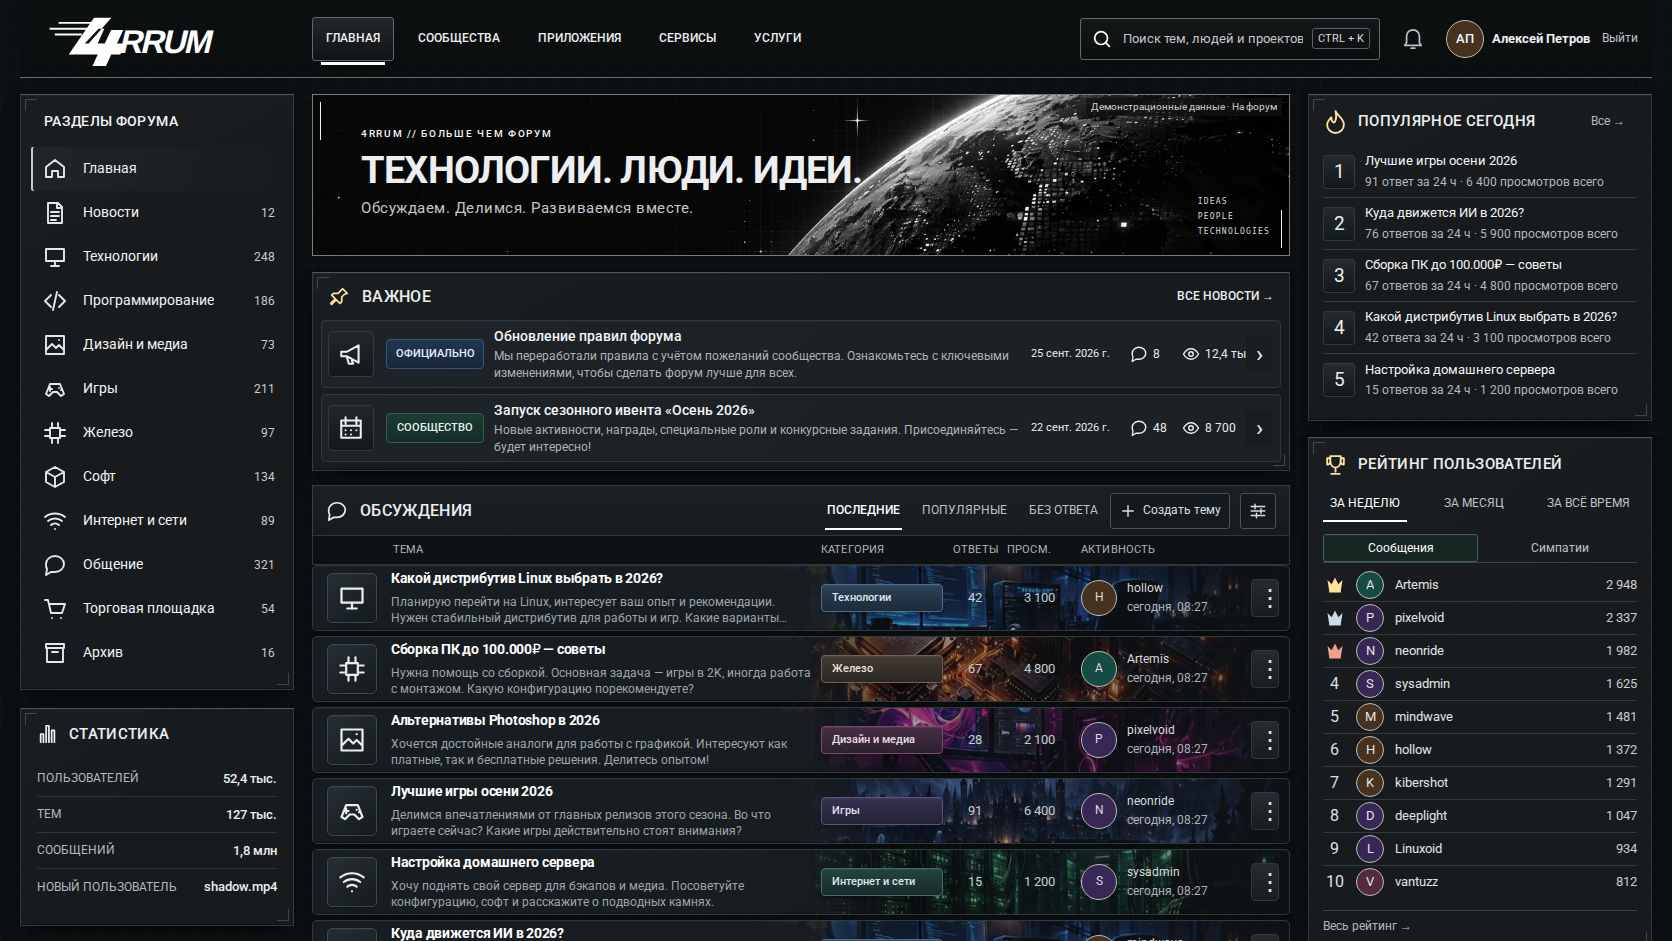
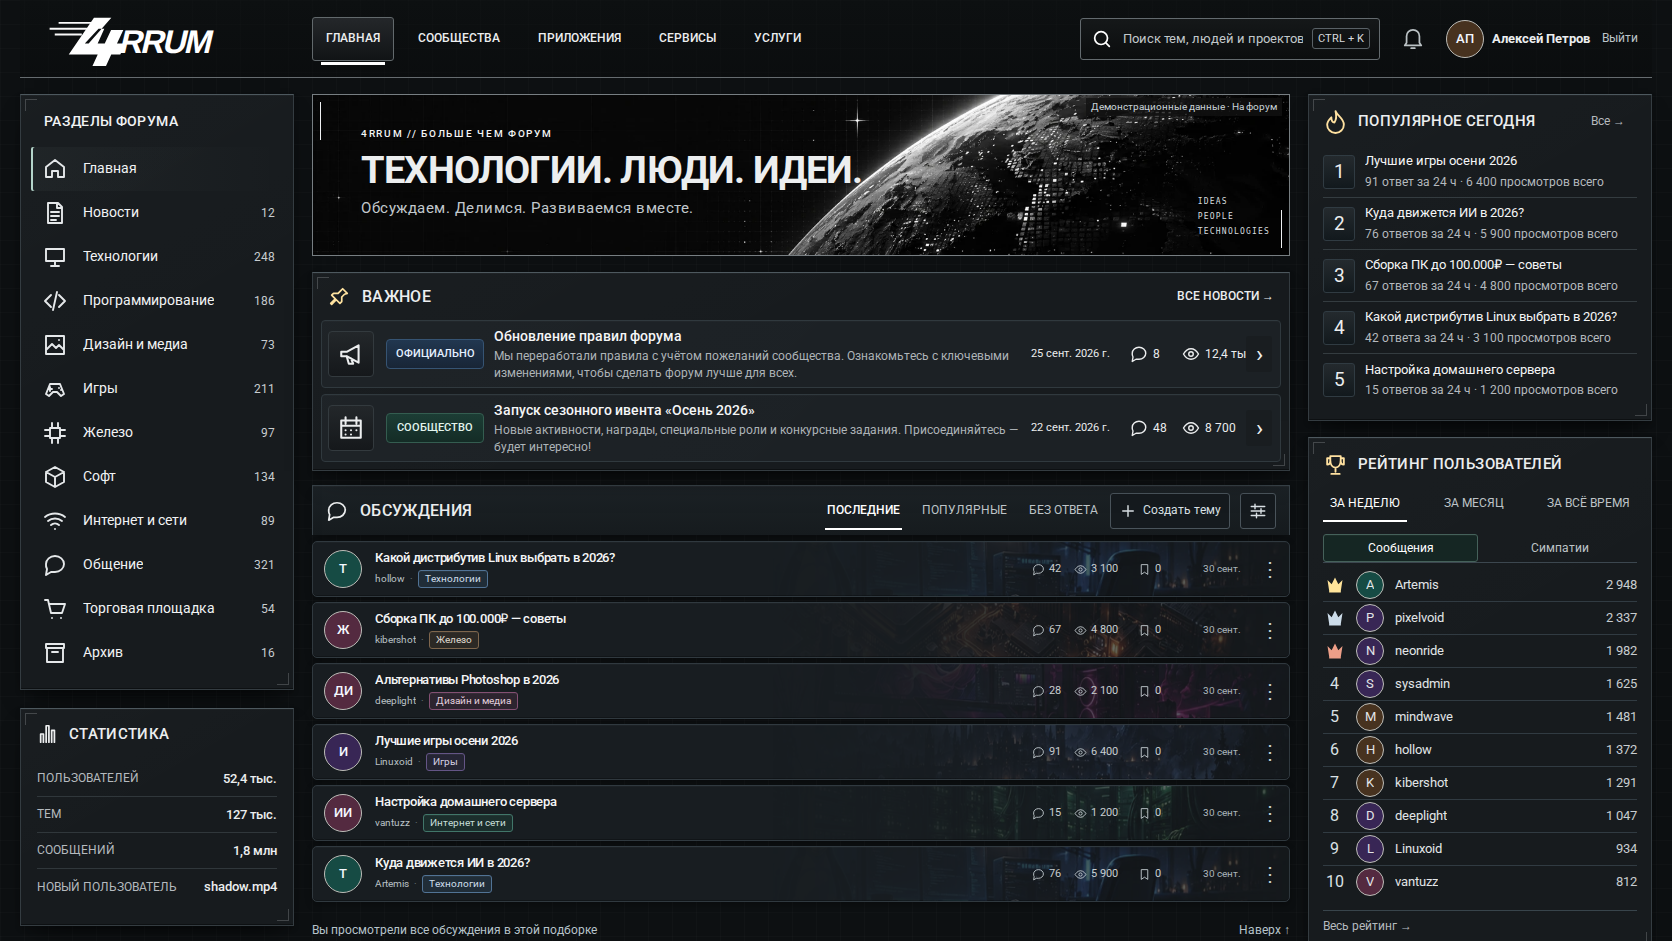
Главная: компактный скелет тем по референсу (#131)
* refactor(home): match compact topic skeleton

* style(home): compact reference topic rows

* test(home): cover compact topic skeleton

* feat(home): support compact absolute dates

* style(home): use compact topic dates

* fix(home): keep compact topics touch-accessible

* fix(home): repair compact date source

* fix(home): keep mobile topic metrics on one row

* ci(home): generate reviewed topic snapshots

* test(home): approve compact topic snapshots

* ci(home): remove temporary snapshot workflow

---------

Changed region(s): [[0.1866, 0.5547, 0.7775, 1.0]]

diff --git a/apps/web/app/home-alpha.css b/apps/web/app/home-alpha.css
@@ -369,3 +369,310 @@ body:has(.forum-home) .site-footer {display:none;}
 .forum-home .forum-topic-content {background:linear-gradient(90deg,#181d21 80%,#181d21eb);border-radius:2px;}
 .forum-home .forum-topic h2 {color:#fff;}
 @media (max-width:760px) {.forum-home .forum-topic::after {mask-image:linear-gradient(90deg,transparent 15%,#000 85%);}.forum-home .forum-topic-content {background:#181d21f5;}}
+
+
+/* Topic skeleton v76: compact reference layout, metadata under the title. */
+.forum-home .forum-topic-columns {display:none;}
+.forum-home .forum-feed {gap:5px;margin-top:6px;}
+.forum-home .forum-topic {
+ display:grid;
+ grid-template-columns:42px minmax(0,1fr) auto 30px;
+ grid-template-rows:auto;
+ gap:10px;
+ align-items:center;
+ min-height:56px;
+ padding:5px 8px 5px 10px;
+}
+.forum-home .forum-topic::after {
+ opacity:.34;
+ filter:saturate(.62) contrast(.96);
+ mask-image:linear-gradient(90deg,transparent 46%,#0002 62%,#000 82%,#000a 100%);
+}
+.forum-home .forum-topic-main-link::after {display:none;}
+.forum-home .forum-topic-avatar {
+ grid-column:1;
+ grid-row:1;
+ align-self:center;
+ display:grid;
+ place-items:center;
+ width:40px;
+ height:40px;
+}
+.forum-home .forum-topic-avatar .avatar {
+ width:38px!important;
+ height:38px!important;
+ border-color:color-mix(in srgb,var(--chip-accent,#98b4cd) 58%,#87949b);
+ box-shadow:0 1px 4px #0008,inset 0 1px #ffffff14;
+}
+.forum-home .forum-topic-content {
+ grid-column:2;
+ grid-row:1;
+ min-width:0;
+ background:transparent;
+ border-radius:0;
+}
+.forum-home .forum-topic-title-line {
+ display:flex;
+ align-items:center;
+ gap:6px;
+ min-width:0;
+ margin-bottom:4px;
+}
+.forum-home .forum-topic h2 {
+ flex:1 1 auto;
+ min-width:0;
+ margin:0;
+ font-size:13px;
+ line-height:1.22;
+ font-weight:500;
+ color:#f5f6f7;
+}
+.forum-home .forum-topic h2 .forum-topic-main-link {
+ display:block;
+ overflow:hidden;
+ text-overflow:ellipsis;
+ white-space:nowrap;
+}
+.forum-home .forum-topic-pinned {
+ flex:0 0 auto;
+ display:grid;
+ place-items:center;
+ margin:0;
+ color:#cbd4d7;
+}
+.forum-home .forum-topic-pinned svg {width:13px;height:13px;}
+.forum-home .forum-topic-important {
+ flex:0 0 auto;
+ display:inline-flex;
+ align-items:center;
+ min-height:17px;
+ margin:0;
+ padding:1px 5px;
+ border:1px solid #4da98e;
+ border-radius:3px;
+ background:#17372f;
+ color:#c9f7e8;
+ font-size:9px;
+ line-height:1;
+ font-weight:500;
+}
+.forum-home .forum-topic-excerpt {display:none;}
+.forum-home .forum-topic-context {
+ position:relative;
+ z-index:2;
+ display:flex;
+ align-items:center;
+ gap:5px;
+ min-width:0;
+ height:18px;
+ overflow:hidden;
+ color:#9fa8ad;
+ font-size:10px;
+ line-height:18px;
+ white-space:nowrap;
+}
+.forum-home .forum-topic-author {
+ flex:0 1 auto;
+ max-width:110px;
+ overflow:hidden;
+ text-overflow:ellipsis;
+ color:#b8c0c4;
+}
+.forum-home .forum-topic-meta-dot {color:#687278;}
+.forum-home .forum-topic-category-chip {
+ flex:0 0 auto;
+ display:inline-flex;
+ align-items:center;
+ min-height:18px;
+ max-width:150px;
+ padding:1px 6px;
+ overflow:hidden;
+ text-overflow:ellipsis;
+ border:1px solid color-mix(in srgb,var(--chip-accent,#98b4cd) 60%,#30383d);
+ border-radius:3px;
+ background:color-mix(in srgb,var(--chip-accent,#98b4cd) 16%,#12181b);
+ color:color-mix(in srgb,var(--chip-accent,#98b4cd) 24%,#edf2f3);
+ box-shadow:inset 0 1px #ffffff0a;
+ font-size:9.5px;
+ line-height:1;
+}
+.forum-home .forum-topic-category-chip:hover {
+ border-color:var(--chip-accent,#98b4cd);
+ background:color-mix(in srgb,var(--chip-accent,#98b4cd) 22%,#12181b);
+}
+.forum-home .forum-tag {
+ flex:0 1 auto;
+ max-width:105px;
+ overflow:hidden;
+ text-overflow:ellipsis;
+ color:#9ca6ab;
+ font-size:10px;
+}
+.forum-home .forum-tag:hover {color:#d4dadd;}
+.forum-home .forum-new-replies {
+ flex:0 0 auto;
+ color:#aee6d5;
+ font-size:9.5px;
+}
+.forum-home .forum-topic-stats {
+ position:relative;
+ z-index:2;
+ grid-column:3;
+ grid-row:1;
+ display:grid;
+ grid-template-columns:40px 50px 46px 64px;
+ gap:5px;
+ align-items:center;
+ justify-items:center;
+ min-width:0;
+}
+.forum-home .forum-topic-metric {
+ display:flex;
+ align-items:center;
+ justify-content:center;
+ gap:4px;
+ min-width:0;
+ color:#cbd2d6;
+ font-size:10.5px;
+ line-height:1;
+ font-variant-numeric:tabular-nums;
+}
+.forum-home .forum-topic-metric svg {
+ display:block;
+ width:13px;
+ height:13px;
+ color:#c6cfd3;
+ stroke-width:1.65;
+}
+.forum-home .forum-topic-date {
+ justify-self:end;
+ color:#aab4b9;
+ font-size:10px;
+ line-height:1;
+ white-space:nowrap;
+ font-variant-numeric:tabular-nums;
+}
+.forum-home .forum-topic-menu {
+ grid-column:4;
+ grid-row:1;
+ align-self:center;
+}
+.forum-home .forum-more-trigger {
+ width:28px;
+ height:34px;
+ border-color:transparent;
+ background:transparent;
+ color:#c7d0d4;
+ font-size:20px;
+}
+.forum-home .forum-more-trigger:hover {
+ border-color:#3a464c;
+ background:#20272b;
+}
+.forum-home .forum-topic-category-cell,
+.forum-home .forum-topic-last {display:none;}
+
+@media (min-width:761px) and (max-width:1450px) {
+ .forum-home .forum-topic {
+  grid-template-columns:38px minmax(0,1fr) auto 28px;
+  gap:8px;
+  min-height:54px;
+  padding-left:8px;
+ }
+ .forum-home .forum-topic-avatar {width:36px;height:36px;}
+ .forum-home .forum-topic-avatar .avatar {width:34px!important;height:34px!important;}
+ .forum-home .forum-topic h2 {font-size:12.5px;}
+ .forum-home .forum-topic-context {font-size:9.5px;gap:4px;}
+ .forum-home .forum-topic-category-chip {max-width:116px;font-size:9px;padding-inline:5px;}
+ .forum-home .forum-tag {max-width:78px;font-size:9.5px;}
+ .forum-home .forum-topic-stats {grid-template-columns:36px 46px 42px 58px;gap:3px;}
+ .forum-home .forum-topic-metric {font-size:10px;gap:3px;}
+ .forum-home .forum-topic-date {font-size:9.5px;}
+}
+
+@media (max-width:760px) {
+ .forum-home .forum-feed {gap:6px;margin-top:6px;}
+ .forum-home .forum-topic {
+  grid-template-columns:36px minmax(0,1fr) 44px;
+  grid-template-rows:auto auto;
+  gap:6px 8px;
+  min-height:86px;
+  padding:8px;
+  align-items:start;
+ }
+ .forum-home .forum-topic::after {
+  opacity:.24;
+  mask-image:linear-gradient(90deg,transparent 52%,#0002 72%,#0009 100%);
+ }
+ .forum-home .forum-topic-avatar {
+  grid-column:1;
+  grid-row:1;
+  width:34px;
+  height:34px;
+  align-self:start;
+ }
+ .forum-home .forum-topic-avatar .avatar {width:34px!important;height:34px!important;}
+ .forum-home .forum-topic-content {grid-column:2;grid-row:1;align-self:start;}
+ .forum-home .forum-topic-title-line {align-items:flex-start;gap:4px;margin-bottom:5px;}
+ .forum-home .forum-topic h2 {font-size:13px;line-height:1.28;}
+ .forum-home .forum-topic h2 .forum-topic-main-link {
+  display:-webkit-box;
+  -webkit-line-clamp:2;
+  -webkit-box-orient:vertical;
+  white-space:normal;
+  text-overflow:clip;
+ }
+ .forum-home .forum-topic-context {
+  height:auto;
+  min-height:18px;
+  flex-wrap:wrap;
+  gap:3px 5px;
+  white-space:normal;
+  overflow:visible;
+ }
+ .forum-home .forum-topic-author {max-width:95px;}
+ .forum-home .forum-topic-category-chip {max-width:120px;}
+ .forum-home .forum-tag {max-width:90px;}
+ .forum-home .forum-topic-stats {
+  grid-column:2/4;
+  grid-row:2;
+  display:grid;
+  grid-template-columns:auto auto auto 1fr;
+  gap:12px;
+  width:100%;
+  min-height:24px;
+  justify-items:start;
+ }
+ .forum-home .forum-topic-metric {font-size:10px;justify-content:flex-start;}
+ .forum-home .forum-topic-date {justify-self:end;align-self:center;font-size:9.5px;}
+ .forum-home .forum-topic-menu {
+  grid-column:3;
+  grid-row:1;
+  align-self:start;
+  justify-self:end;
+ }
+ .forum-home .forum-more-trigger {width:44px;height:44px;}
+}
+
+
+/* WCAG 2.2 touch targets for the compact mobile topic layout. */
+@media (max-width:760px) {
+ .forum-home .forum-topic h2 .forum-topic-main-link {
+  min-height:24px;
+  padding-block:3px;
+  margin-block:-3px;
+ }
+ .forum-home .forum-topic-category-chip {
+  min-height:24px;
+  padding-block:3px;
+ }
+ .forum-home .forum-topic-context {min-height:24px;}
+}
+
+@media (max-width:760px) {
+ .forum-home .forum-topic-stats .forum-topic-metric,
+ .forum-home .forum-topic-stats .forum-topic-date {
+  grid-column:auto;
+  grid-row:auto;
+ }
+}

diff --git a/apps/web/components/reference-home.tsx b/apps/web/components/reference-home.tsx
@@ -115,7 +115,6 @@ function Topic({ item, history, communities, demo, guest }: { item: PublicationC
  const categoryLabel=category?.parent ? `${communityLabel(category.parent.name)} › ${communityLabel(item.community.name)}` : communityLabel(item.community.name);
  const readState=topicReadState(history,item.id,item.lastComment?.createdAt);
  const important=Boolean(item.isOfficial && item.pinnedUntil && Date.parse(item.pinnedUntil)>Date.now());
- const lastAuthor=item.lastComment?.author ?? item.author;
  const lastAt=item.lastComment?.createdAt ?? item.lastActivityAt ?? item.createdAt;
  const cover=topicBackdrop(item.community.slug,item.community.name);
  const style={
@@ -123,22 +122,28 @@ function Topic({ item, history, communities, demo, guest }: { item: PublicationC
    '--topic-image':cover ? `url("${cover}")` : 'none',
  } as CSSProperties;
  return <article className={`forum-topic is-${readState}`} style={style} data-reading-state={readState}>
-  <Link className="forum-topic-avatar" href={`/communities/${item.community.slug}`} title={communityLabel(item.community.name)} aria-label={`Раздел: ${communityLabel(item.community.name)}`}><span className="forum-topic-category-icon"><Icon name={categoryIcon(item.community.name)}/></span></Link>
+  <Link className="forum-topic-avatar" href={`/communities/${item.community.slug}`} title={communityLabel(item.community.name)} aria-label={`Раздел: ${communityLabel(item.community.name)}`}>
+   <Avatar name={communityLabel(item.community.name)} url={item.community.avatarUrl ?? item.author.avatarUrl} size={38}/>
+  </Link>
   <div className="forum-topic-content">
-   <h2>{important && <span className="forum-topic-pinned" title="Закреплено форумом"><Icon name="paperclip"/></span>}{important && <span className="forum-topic-important">Важно</span>}<Link className="forum-topic-main-link" href={`/p/${item.slug}`}>{item.title?.trim().replace(/FORRUM/g,'4rrum') || 'Запись без заголовка'}</Link></h2>
-   <p className="forum-topic-excerpt">{item.excerpt || 'Откройте тему, чтобы прочитать обсуждение и присоединиться.'}</p>
-   <div className="forum-topic-context" aria-label="Автор и метки темы">
+   <div className="forum-topic-title-line">
+    <h2><Link className="forum-topic-main-link" href={`/p/${item.slug}`}>{item.title?.trim().replace(/FORRUM/g,'4rrum') || 'Запись без заголовка'}</Link></h2>
+    {important && <span className="forum-topic-pinned" title="Закреплено форумом"><Icon name="paperclip"/></span>}
+    {important && <span className="forum-topic-important">Важно</span>}
+   </div>
+   <div className="forum-topic-context" aria-label="Автор, раздел и метки темы">
     <Link className="forum-topic-author" href={`/u/${item.author.username}`}>{item.author.displayName}</Link>
+    <span className="forum-topic-meta-dot" aria-hidden="true">·</span>
+    <Link className="forum-topic-category-chip" style={categoryStyle(item.community.slug,category?.accentColor ?? item.community.accentColor)} href={`/communities/${item.community.slug}`} title={categoryLabel}>{communityLabel(item.community.name)}</Link>
     {item.tags?.slice(0,2).map(tag=><Link className="forum-tag" href={`/tags/${tag.slug}`} key={tag.id}>#{tag.label}</Link>)}
     {readState==='updated' && <Link className="forum-new-replies" href={`/p/${item.slug}#new-replies`}>Новые ответы</Link>}
    </div>
   </div>
-  <div className="forum-topic-category-cell"><Link style={categoryStyle(item.community.slug,category?.accentColor ?? item.community.accentColor)} href={`/communities/${item.community.slug}`} title={categoryLabel}>{communityLabel(item.community.name)}</Link></div>
-  <Link className="forum-topic-metric forum-reply-count" href={`/p/${item.slug}#discussion`} aria-label={`Ответы: ${item.commentCount}`} title="Ответы"><Icon name="comment"/><span>{formatCount(item.commentCount)}</span></Link>
-  <span className="forum-topic-metric forum-view-count" title="Просмотры" aria-label={`Просмотры: ${item.viewCount ?? 0}`}><Icon name="eye"/><span>{formatCount(item.viewCount)}</span></span>
-  <div className="forum-topic-last">
-   <Avatar name={lastAuthor.displayName} url={lastAuthor.avatarUrl} size={36}/>
-   <span><strong title={lastAuthor.displayName}>{lastAuthor.displayName}</strong><ForumTime value={lastAt}/></span>
+  <div className="forum-topic-stats" aria-label="Статистика темы">
+   <Link className="forum-topic-metric forum-reply-count" href={`/p/${item.slug}#discussion`} aria-label={`Ответы: ${item.commentCount}`} title="Ответы"><Icon name="comment"/><span>{formatCount(item.commentCount)}</span></Link>
+   <span className="forum-topic-metric forum-view-count" title="Просмотры" aria-label={`Просмотры: ${item.viewCount ?? 0}`}><Icon name="eye"/><span>{formatCount(item.viewCount)}</span></span>
+   <span className="forum-topic-metric forum-bookmark-count" title="Закладки" aria-label={`Закладки: ${item.bookmarkCount ?? 0}`}><Icon name="bookmark"/><span>{formatCount(item.bookmarkCount ?? 0)}</span></span>
+   <span className="forum-topic-date"><ForumTime value={lastAt} absolute compact/></span>
   </div>
   <div className="forum-topic-menu"><TopicActions item={item} demo={demo} guest={guest}/></div>
  </article>;
@@ -325,7 +330,6 @@ export function HomeDashboard({ initialData, demo = false }: { initialData: Home
    </div>}
    {community && <div className="forum-active-filter">{communityLabel(communities.find(item=>item.slug===community)?.name || community)}<button type="button" onClick={()=>choose(tab,'')} aria-label="Сбросить выбранное сообщество">×</button></div>}
    {pendingTopics && !loading && <button type="button" className="forum-feed-update" onClick={() => {setTopics(pendingTopics.slice(0,20));setHasMore(pendingTopics.length>20);setOffset(20);setPendingTopics(null);}}>Есть обновления в ленте · Показать</button>}
-   <div className="forum-topic-columns" aria-hidden="true"><span>Тема</span><span>Категория</span><span>Ответы</span><span>Просм.</span><span>Активность</span><span/></div>
    <section className="forum-feed" aria-label="Темы форума" aria-busy={loading} aria-live="polite">{loading ? <div className="forum-empty" role="status">Загружаем темы…</div> : error ? <div className="forum-empty" role="alert"><p>{error}</p><button type="button" className="forum-button" onClick={() => setRetry(value => value + 1)}>Попробовать снова</button></div> : visible.length ? visible.map(item => <Topic key={`${tab}-${item.id}`} item={item} history={history} communities={communities} demo={demo} guest={viewer === 'guest'}/>) : <div className="forum-empty"><strong>{tab==='popular'?'За сутки новых ответов пока нет':tab==='unanswered'?'Вопросов без ответа пока нет':'Здесь пока нет тем'}</strong><p>Выберите другую подборку или начните своё обсуждение.</p><Link className="forum-button" href="/create">Создать тему</Link></div>}</section>
    {!loading && !error && hasMore && !demo && <div className="forum-load-more"><button className="forum-button" type="button" disabled={loadingMore} onClick={()=>void loadMore()}>{loadingMore?'Загружаем…':'Показать ещё обсуждения'}</button></div>}
    {!loading && !error && !hasMore && visible.length > 0 && <footer className="forum-feed-end"><span>Вы просмотрели все обсуждения в этой подборке</span><a href="#top">Наверх ↑</a></footer>}

diff --git a/apps/web/components/home/forum-time.tsx b/apps/web/components/home/forum-time.tsx
@@ -1,10 +1,11 @@
 'use client';
 import { useEffect, useState } from 'react';
 import { forumDate } from '@/lib/forum-display';
-export function ForumTime({value,absolute=false}:{value:string;absolute?:boolean}) {
+export function ForumTime({value,absolute=false,compact=false}:{value:string;absolute?:boolean;compact?:boolean}) {
  const [clock,setClock]=useState<{now:number;zone:string}|null>(null);
  useEffect(()=>{const zone=Intl.DateTimeFormat().resolvedOptions().timeZone;const update=()=>setClock({now:Date.now(),zone});update();const timer=setInterval(update,60000);return()=>clearInterval(timer);},[]);
  const valid=Number.isFinite(Date.parse(value));
  // The SSR label is an absolute date; local relative labels start only after hydration.
- return <time dateTime={valid?value:undefined} title={valid?new Date(value).toLocaleString('ru-RU',{timeZone:clock?.zone??'UTC'})+` (${clock?.zone??'UTC'})`:undefined}>{clock?forumDate(value,clock.now,clock.zone,absolute):valid?new Date(value).toLocaleDateString('ru-RU',{timeZone:'UTC',day:'numeric',month:'short'}):'—'}</time>;
+ const label=clock&&absolute&&compact&&valid?new Date(value).toLocaleDateString('ru-RU',{timeZone:clock.zone,day:'numeric',month:'short'}):clock?forumDate(value,clock.now,clock.zone,absolute):valid?new Date(value).toLocaleDateString('ru-RU',{timeZone:'UTC',day:'numeric',month:'short'}):'—';
+ return <time dateTime={valid?value:undefined} title={valid?new Date(value).toLocaleString('ru-RU',{timeZone:clock?.zone??'UTC'})+` (${clock?.zone??'UTC'})`:undefined}>{label}</time>;
 }
